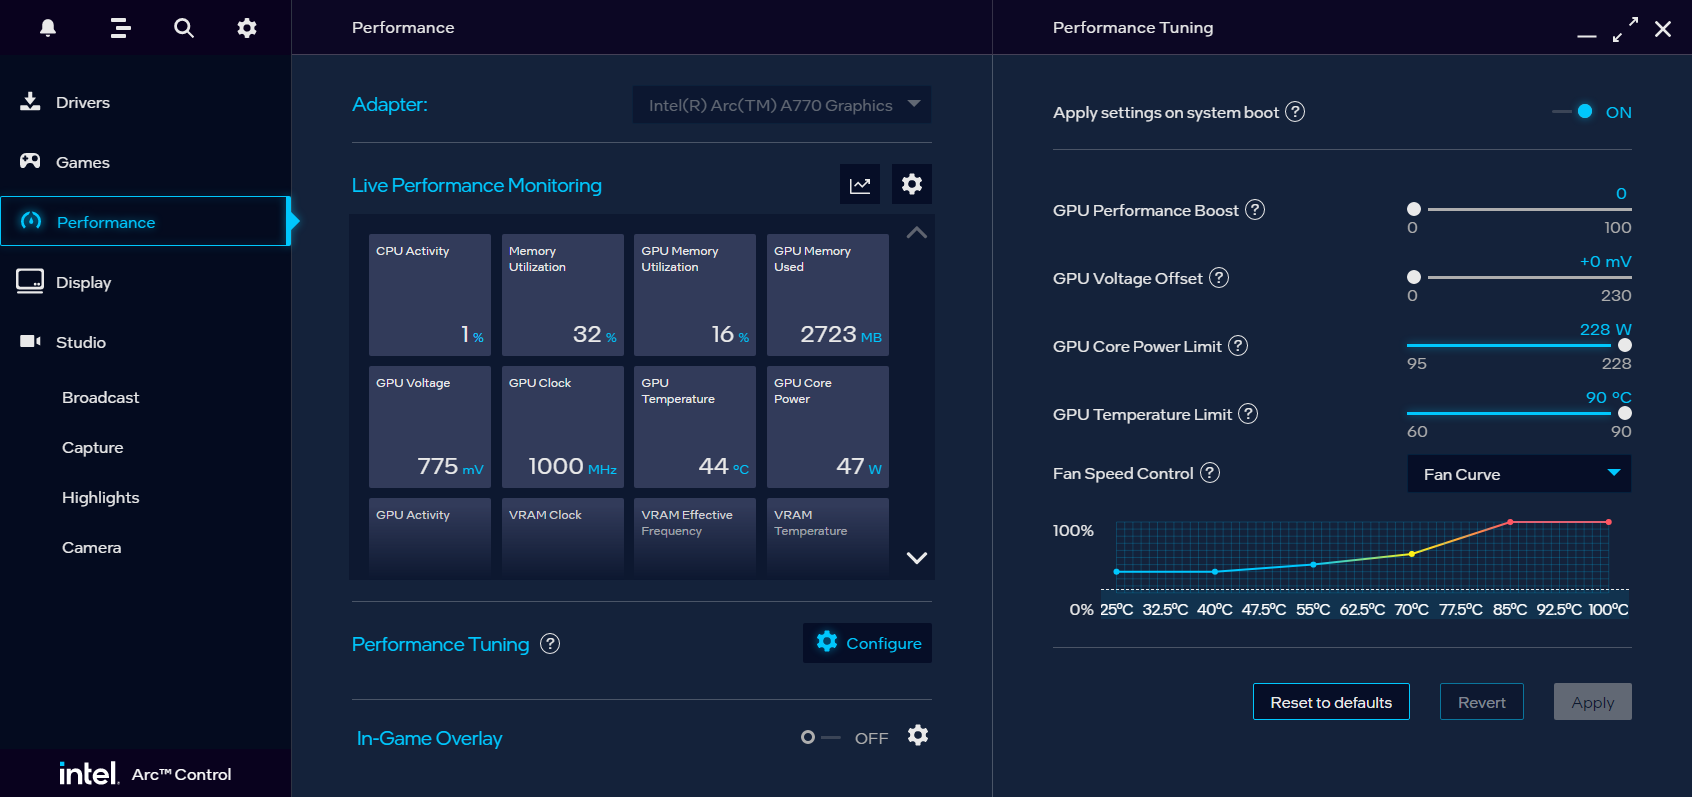
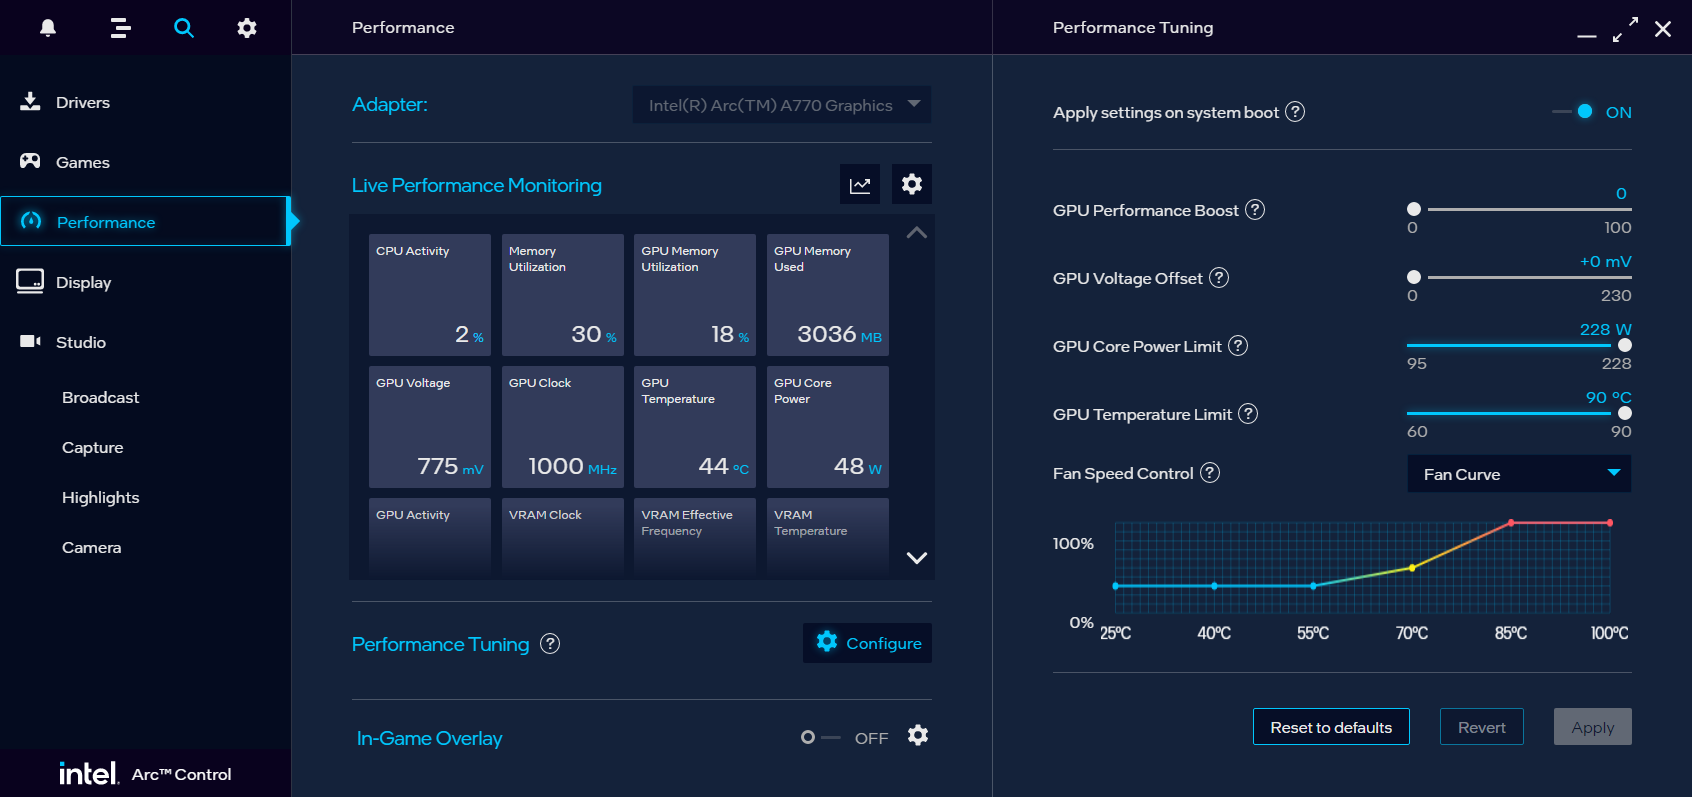
Significantly improved fan control patch

diff --git a/Patches.md b/Patches.md
@@ -5,9 +5,6 @@
 ### Labeled x-axis
 Adds ticks to the x-axis that includes the tempature.
 #### Known issues 
- - Causes the overall size of the chart to shrink slightly.
- - Looks a bit odd
-
 Edit `C:\Program Files\Intel\Intel Arc Control\resource\js\chart_configs\charts.js`and replace
 ```JS
             x: {
@@ -30,12 +27,15 @@ with
                 ticks: {
                     color: energyBlue,
                     callback: function(value, index, values) {
+                        if (!Number.isInteger(value)) {
+                            return "";
+                        }
+
                         return (value * 15) + 25 + "°C";
                     },
                     padding: 0, 
                     font: {
-                        size: 15,
-                        family: "IntelOneDisplay-en",
+                        size: 14,
                     },
                     color: "#FFFFFF",
                 },
@@ -48,6 +48,42 @@ And under `C:\Program Files\Intel\Intel Arc Control\resource\js\pages\performanc
 ```JS
 document.getElementById('fan-graph-x-max').innerHTML = 100 + getTranslationFromId('units-celsius');
 document.getElementById('fan-graph-x-min').innerHTML = 25 + getTranslationFromId('units-celsius');
+```
+and edit `C:\Program Files\Intel\Intel Arc Control\resource\index.html`
+Replace
+```HTML
+<div id="fan-speed-graph-container">
+    <div id="fan-speed-graph-blockout"></div>
+    <canvas id="fan-speed-graph-dragable"
+    height="100"
+    width="527"
+    style="display: block; box-sizing: border-box; height: 100px; width: 527px; touch-action: none; -webkit-tap-highlight-color: rgba(0, 0, 0, 0); transform: translateZ(10px);"></canvas>
+</div>
+```
+With
+```HTML
+<div id="fan-speed-graph-container">
+    <canvas id="fan-speed-graph-dragable"
+    height="100"
+    width="527"
+    style="display: block; box-sizing: border-box; height: 125px; width: 527px; touch-action: none; -webkit-tap-highlight-color: rgba(0, 0, 0, 0); transform: translateZ(10px);"></canvas>
+</div>
+```
+and `C:\Program Files\Intel\Intel Arc Control\resource\css\performance.css`
+```CSS
+#fan-speed-graph-container {
+    width: 100%;
+    height: 100px;
+    position: relative;
+}
+```
+With
+```CSS
+#fan-speed-graph-container {
+    width: 100%;
+    height: 125px;
+    position: relative;
+}
 ```
 ## Notifications
 
